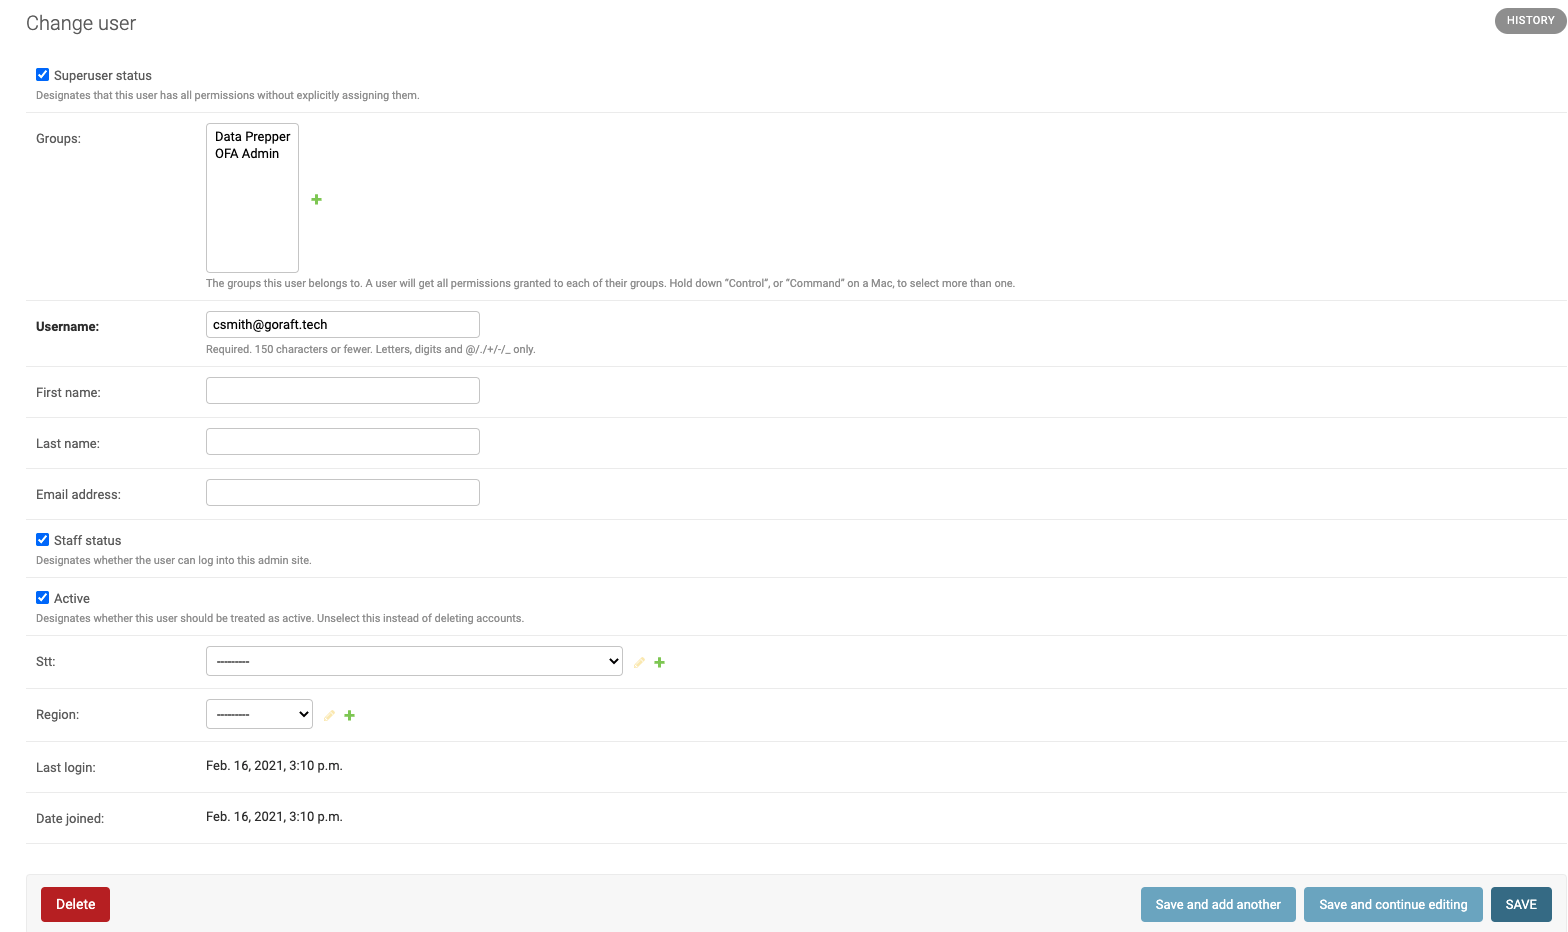
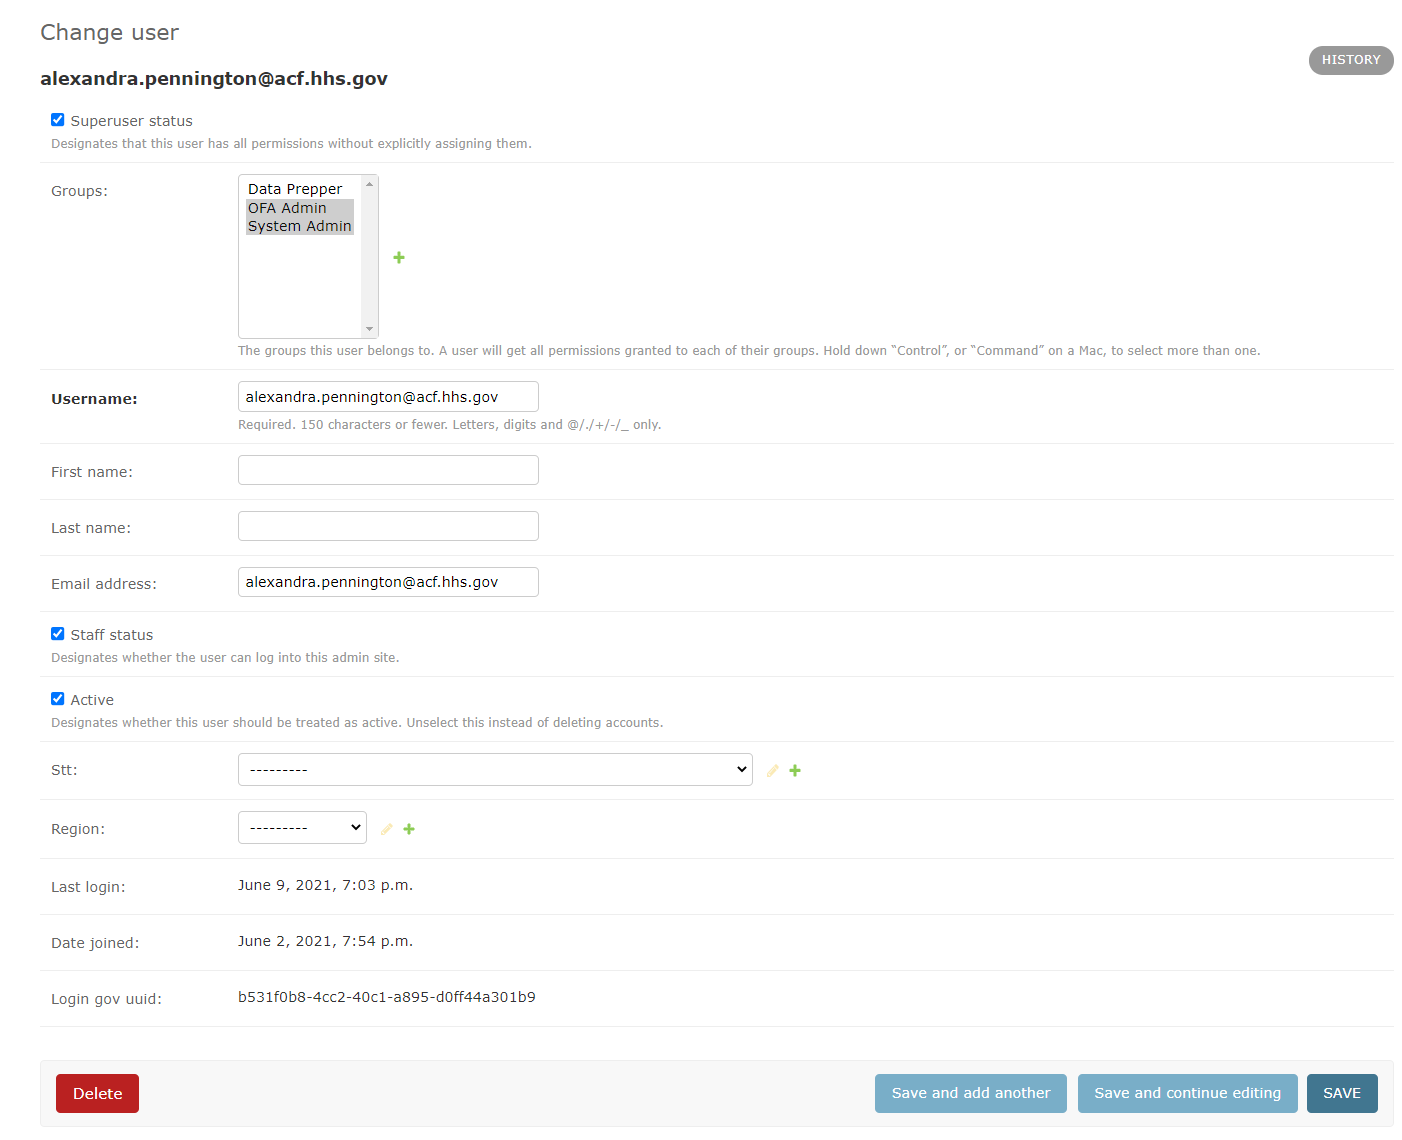
updated docs per issue 962

diff --git a/docs/Technical-Documentation/user_role_management.md b/docs/Technical-Documentation/user_role_management.md
@@ -39,7 +39,7 @@ _Alternatively_
 ### Group List
 
 - Clicking on "Groups" from the Admin Home page gives you a list of all of the existing groups.
-- Current groups listed are "OFA Admin" and "Data Prepper".
+- Current groups listed are "System Admin", "OFA Admin" , and "Data Prepper" (this will be updated when [#940](https://github.com/raft-tech/TANF-app/issues/940) is addressed).
 
 ![](images/group_list.png)
 
@@ -77,7 +77,7 @@ _Alternatively_
 
 - When you click on a user from the User List, you can edit that user's information, including
 first name, last name and username, as well as the user's Active Status, Superuser Status, Staff Status, assigned Groups, STT and Region. You can
-also view the date and time the user joined and when they last logged in.
+also view the user's login.gov UUID, as well as the date and time the user joined and when they last logged in. Note: now that TDP users are identified via their login.gov [UUID](https://github.com/raft-tech/TANF-app/pull/894), any backend changes to the user's first, last, and username will be overwritten by these fields from the user's login.gov account the next time the user logs into TDP. 
 
 ![](images/admin_users.png)
 
